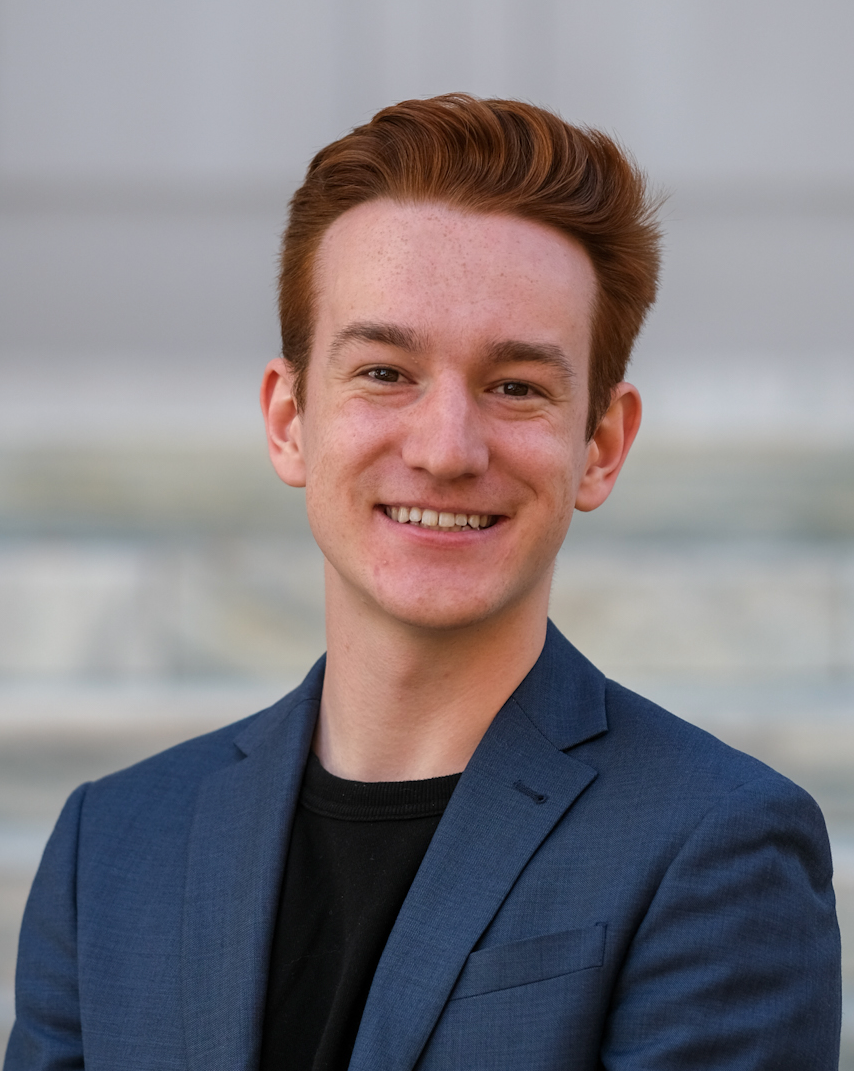
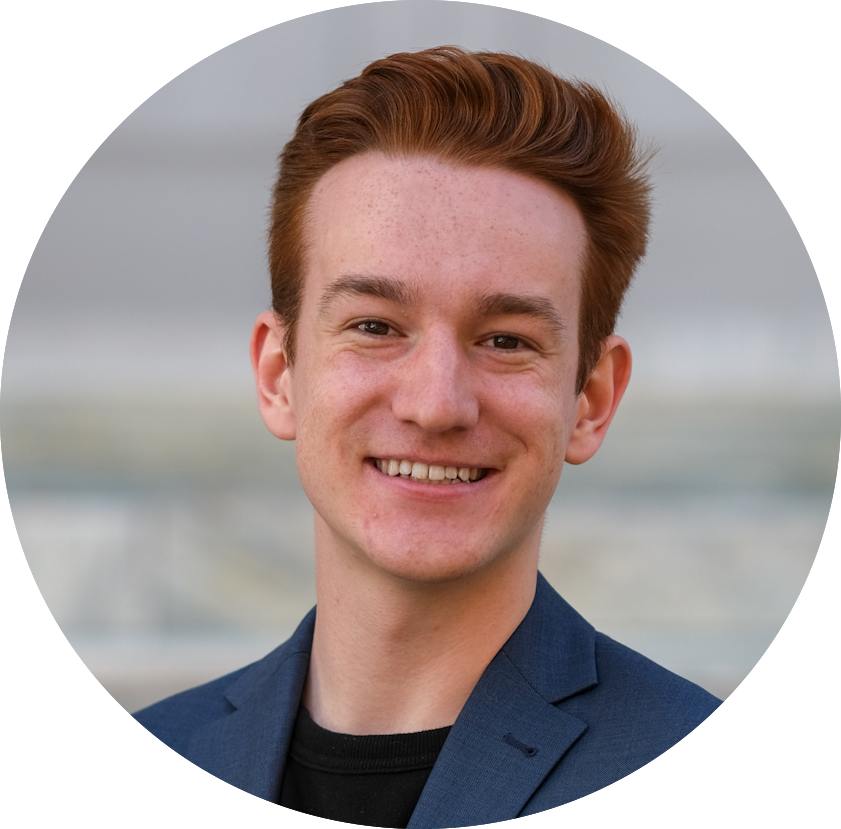
Display headshot on homepage

diff --git a/index.md b/index.md
@@ -1,5 +1,7 @@
 # Miles Guerin
 
+![Headshot](/files/headshot.png)
+
 Economics and quantitative analysis student.
 
 ## Links
